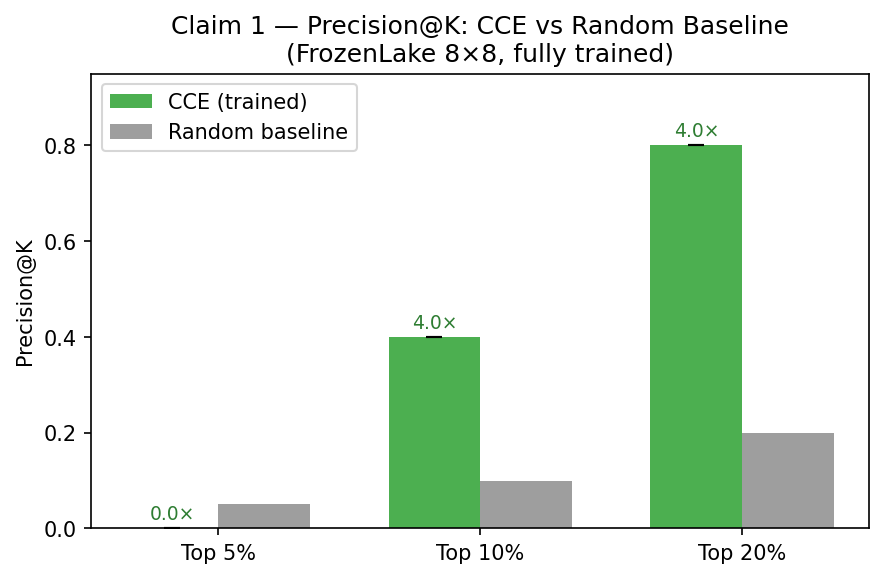
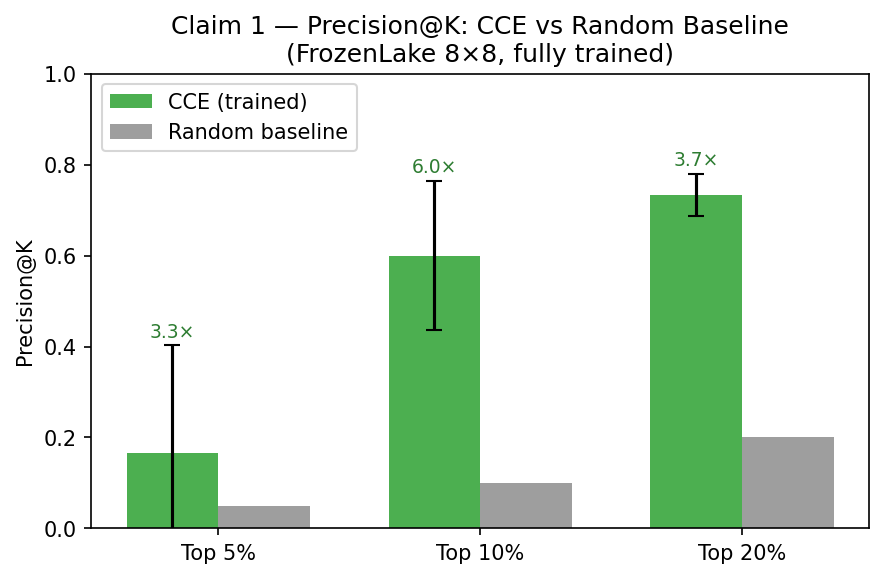
Audit FrozenLake Claim 1: reproduces exactly, robust to the aggregation bug
Re-ran the paper's Claim 1 from the exact published checkpoints under both
aggregation rules, at the paper's own settings.

  stage      paper.tex          max (rerun)        mean (corrected)
  untrained  0.319 +/- 0.114    0.319 +/- 0.114    0.326 +/- 0.105
  mid        0.765 +/- 0.096    0.764 +/- 0.096    0.791 +/- 0.088
  trained    0.889 +/- 0.031    0.888 +/- 0.031    0.895 +/- 0.032

Reproduces to three decimals, and the aggregation fix moves rho by at most +0.027 --
far inside the seed spread. Contrast routing, where the same fix moved rho +0.07 and
precision@10% +0.21: FrozenLake has 4 actions and slippery (already graded) returns,
so max and mean rank states similarly.

Verdict: the published FrozenLake Claim 1 stands, no re-run needed for the paper.

Also documents that slipperiness HELPS Claim 1 rather than threatening it -- FL-slippery
yields 18 distinct CCE score values against FL-deterministic's 2 -- and that the real
exposure is the slippery-C1 / deterministic-C2 environment mismatch, which routing now
partially mitigates.

Adds --aggregation and --ckpt-root to the FL Claim-1 pipeline.

Claude-Session: https://claude.ai/code/session_019Xzvv6y6ZRCCiMAQNncbQm

diff --git a/src/counterfactual_rl/analysis/claim1/frozen_lake/run_analysis.py b/src/counterfactual_rl/analysis/claim1/frozen_lake/run_analysis.py
@@ -115,6 +115,10 @@ def main():
     parser = argparse.ArgumentParser()
     parser.add_argument('--seeds', nargs='+', type=int, default=[0, 1, 2])
     parser.add_argument('--metric', default='total_variation')
+    parser.add_argument('--aggregation', default='weighted_mean',
+                        choices=['weighted_mean', 'mean', 'max'])
+    parser.add_argument('--ckpt-root', default=None,
+                        help='override the checkpoint directory')
     parser.add_argument('--n-rollouts', type=int, default=100)
     parser.add_argument('--horizon', type=int, default=500)
     parser.add_argument('--gamma', type=float, default=1.0)
@@ -132,10 +136,11 @@ def main():
     for seed in args.seeds:
         cce[seed] = {}
         for stage in STAGES:
-            ckpt = CKPT_ROOT / f'seed_{seed}' / f'{stage}.pkl'
+            root = Path(args.ckpt_root) if args.ckpt_root else CKPT_ROOT
+            ckpt = root / f'seed_{seed}' / f'{stage}.pkl'
             print(f'  Scoring seed={seed} stage={stage} ...')
             cce[seed][stage] = score_all_states(
-                ckpt, non_terminal,
+                ckpt, non_terminal, aggregation=args.aggregation,
                 n_rollouts=args.n_rollouts,
                 horizon=args.horizon,
                 gamma=args.gamma,

diff --git a/src/counterfactual_rl/analysis/claim1/frozen_lake/score_states.py b/src/counterfactual_rl/analysis/claim1/frozen_lake/score_states.py
@@ -48,7 +48,7 @@ def _build_rollout_fn(env, network, horizon, gamma):
 
 
 def score_all_states(ckpt_path, non_terminal, n_rollouts=20, horizon=10,
-                     gamma=0.99, metric='total_variation', seed=42):
+                     gamma=0.99, metric='total_variation', seed=42, aggregation='weighted_mean'):
     """
     Load checkpoint and CCE-score every non-terminal state.
 
@@ -89,7 +89,10 @@ def score_all_states(ckpt_path, non_terminal, n_rollouts=20, horizon=10,
             action=(greedy_a,),
             return_distributions={(a,): returns[i, a] for a in range(4)},
             metric=metric,
-            aggregation='weighted_mean',
+            # 'weighted_mean' without action_probs silently becomes max() -- see the
+            # RuntimeWarning in analysis/metrics.py. Exposed so the paper's Claim-1
+            # number can be checked against the corrected rule.
+            aggregation=aggregation,
         )
 
     return scores

diff --git a/lab-notebook.md b/lab-notebook.md
@@ -88,6 +88,46 @@ Active: FL-det, FL-stoch, SMAX-3m, C4.   Dropped: Chess, raw diagnostics.
 
 ## LOG (append-only, newest on top)
 
+### 2026-08-23 — **FROZENLAKE CLAIM 1 AUDITED. The paper's numbers reproduce EXACTLY and are
+robust to the aggregation bug. No paper change needed.**
+
+Re-ran the paper's Claim 1 from `paper/repro/cache/checkpoints/seed_{0,1,2}` — the exact
+checkpoints it was published from — under both aggregation rules, at the paper's own settings
+(n_rollouts=100, horizon=500, gamma=1.0).
+```
+stage        paper.tex        max (rerun)        mean (corrected)
+untrained    0.319 +/- 0.114  0.319 +/- 0.114    0.326 +/- 0.105
+mid          0.765 +/- 0.096  0.764 +/- 0.096    0.791 +/- 0.088
+trained      0.889 +/- 0.031  0.888 +/- 0.031    0.895 +/- 0.032
+```
+**REPRODUCES TO THREE DECIMALS.** The repro bundle does what it claims.
+
+**AND THE BUG DOES NOT MATTER HERE.** mean shifts rho by +0.007 / +0.027 / +0.007 — all far
+inside the seed spread. precision@k improves modestly (top-5% lift 3.3x -> 6.7x).
+Contrast with routing, where the same fix moved rho by +0.07 and p@10 by +0.21.
+
+WHY THE DIFFERENCE: FrozenLake has only 4 actions, so max and mean over at most 3 alternatives
+rank states similarly; and slippery transitions already make each TV graded rather than 0/1.
+Routing has 11 actions and (in budget mode) deterministic rollouts, where max collapses hardest.
+
+**VERDICT: the published FrozenLake Claim 1 stands. Do not re-run it for the paper.** Optionally
+switch to `mean` for consistency with routing, which nudges every number up slightly, but the
+claim is unchanged either way.
+
+**ON THE STOCHASTICITY WORRY — slippery HELPS Claim 1, it does not threaten it.** Measured score
+distributions: FL-slippery gives 18 distinct CCE values (gini 0.386); FL-deterministic gives 2
+values with 86% zeros. Total variation needs spread in the per-action return distributions, and
+stochastic transitions supply it. A deterministic-FL Claim 1 would be measured on a near-binary
+score — the same degeneracy that sank routing's Claim 2.
+
+**THE REAL EXPOSURE IS UNCHANGED AND IS NOT ABOUT NOISE:** Claim 1 is measured on SLIPPERY FL
+while the Claim-2 headline win is on DETERMINISTIC FL. Different environments. Routing now
+mitigates this — a second exact-oracle env, 10 seeds, 1000 states, showing the same rise
+(0.576 -> 0.765) with `travel_noise` playing the role slip plays in FrozenLake.
+
+Pipeline changes: `--aggregation` and `--ckpt-root` added to the FL Claim-1 analysis; the scorer
+takes `aggregation` instead of hardcoding it.
+
 ### 2026-08-23 — **CLAIM 1 (routing) LOCKED DOWN at 10 seeds. Fixing the aggregation IMPROVED it.**
 Retrained seeds 3-9 (SLURM 274243) for 10 total, exposed `aggregation` as a parameter through
 `score_states` / `run_analysis`, and re-ran the whole Claim-1 pipeline under both rules.
